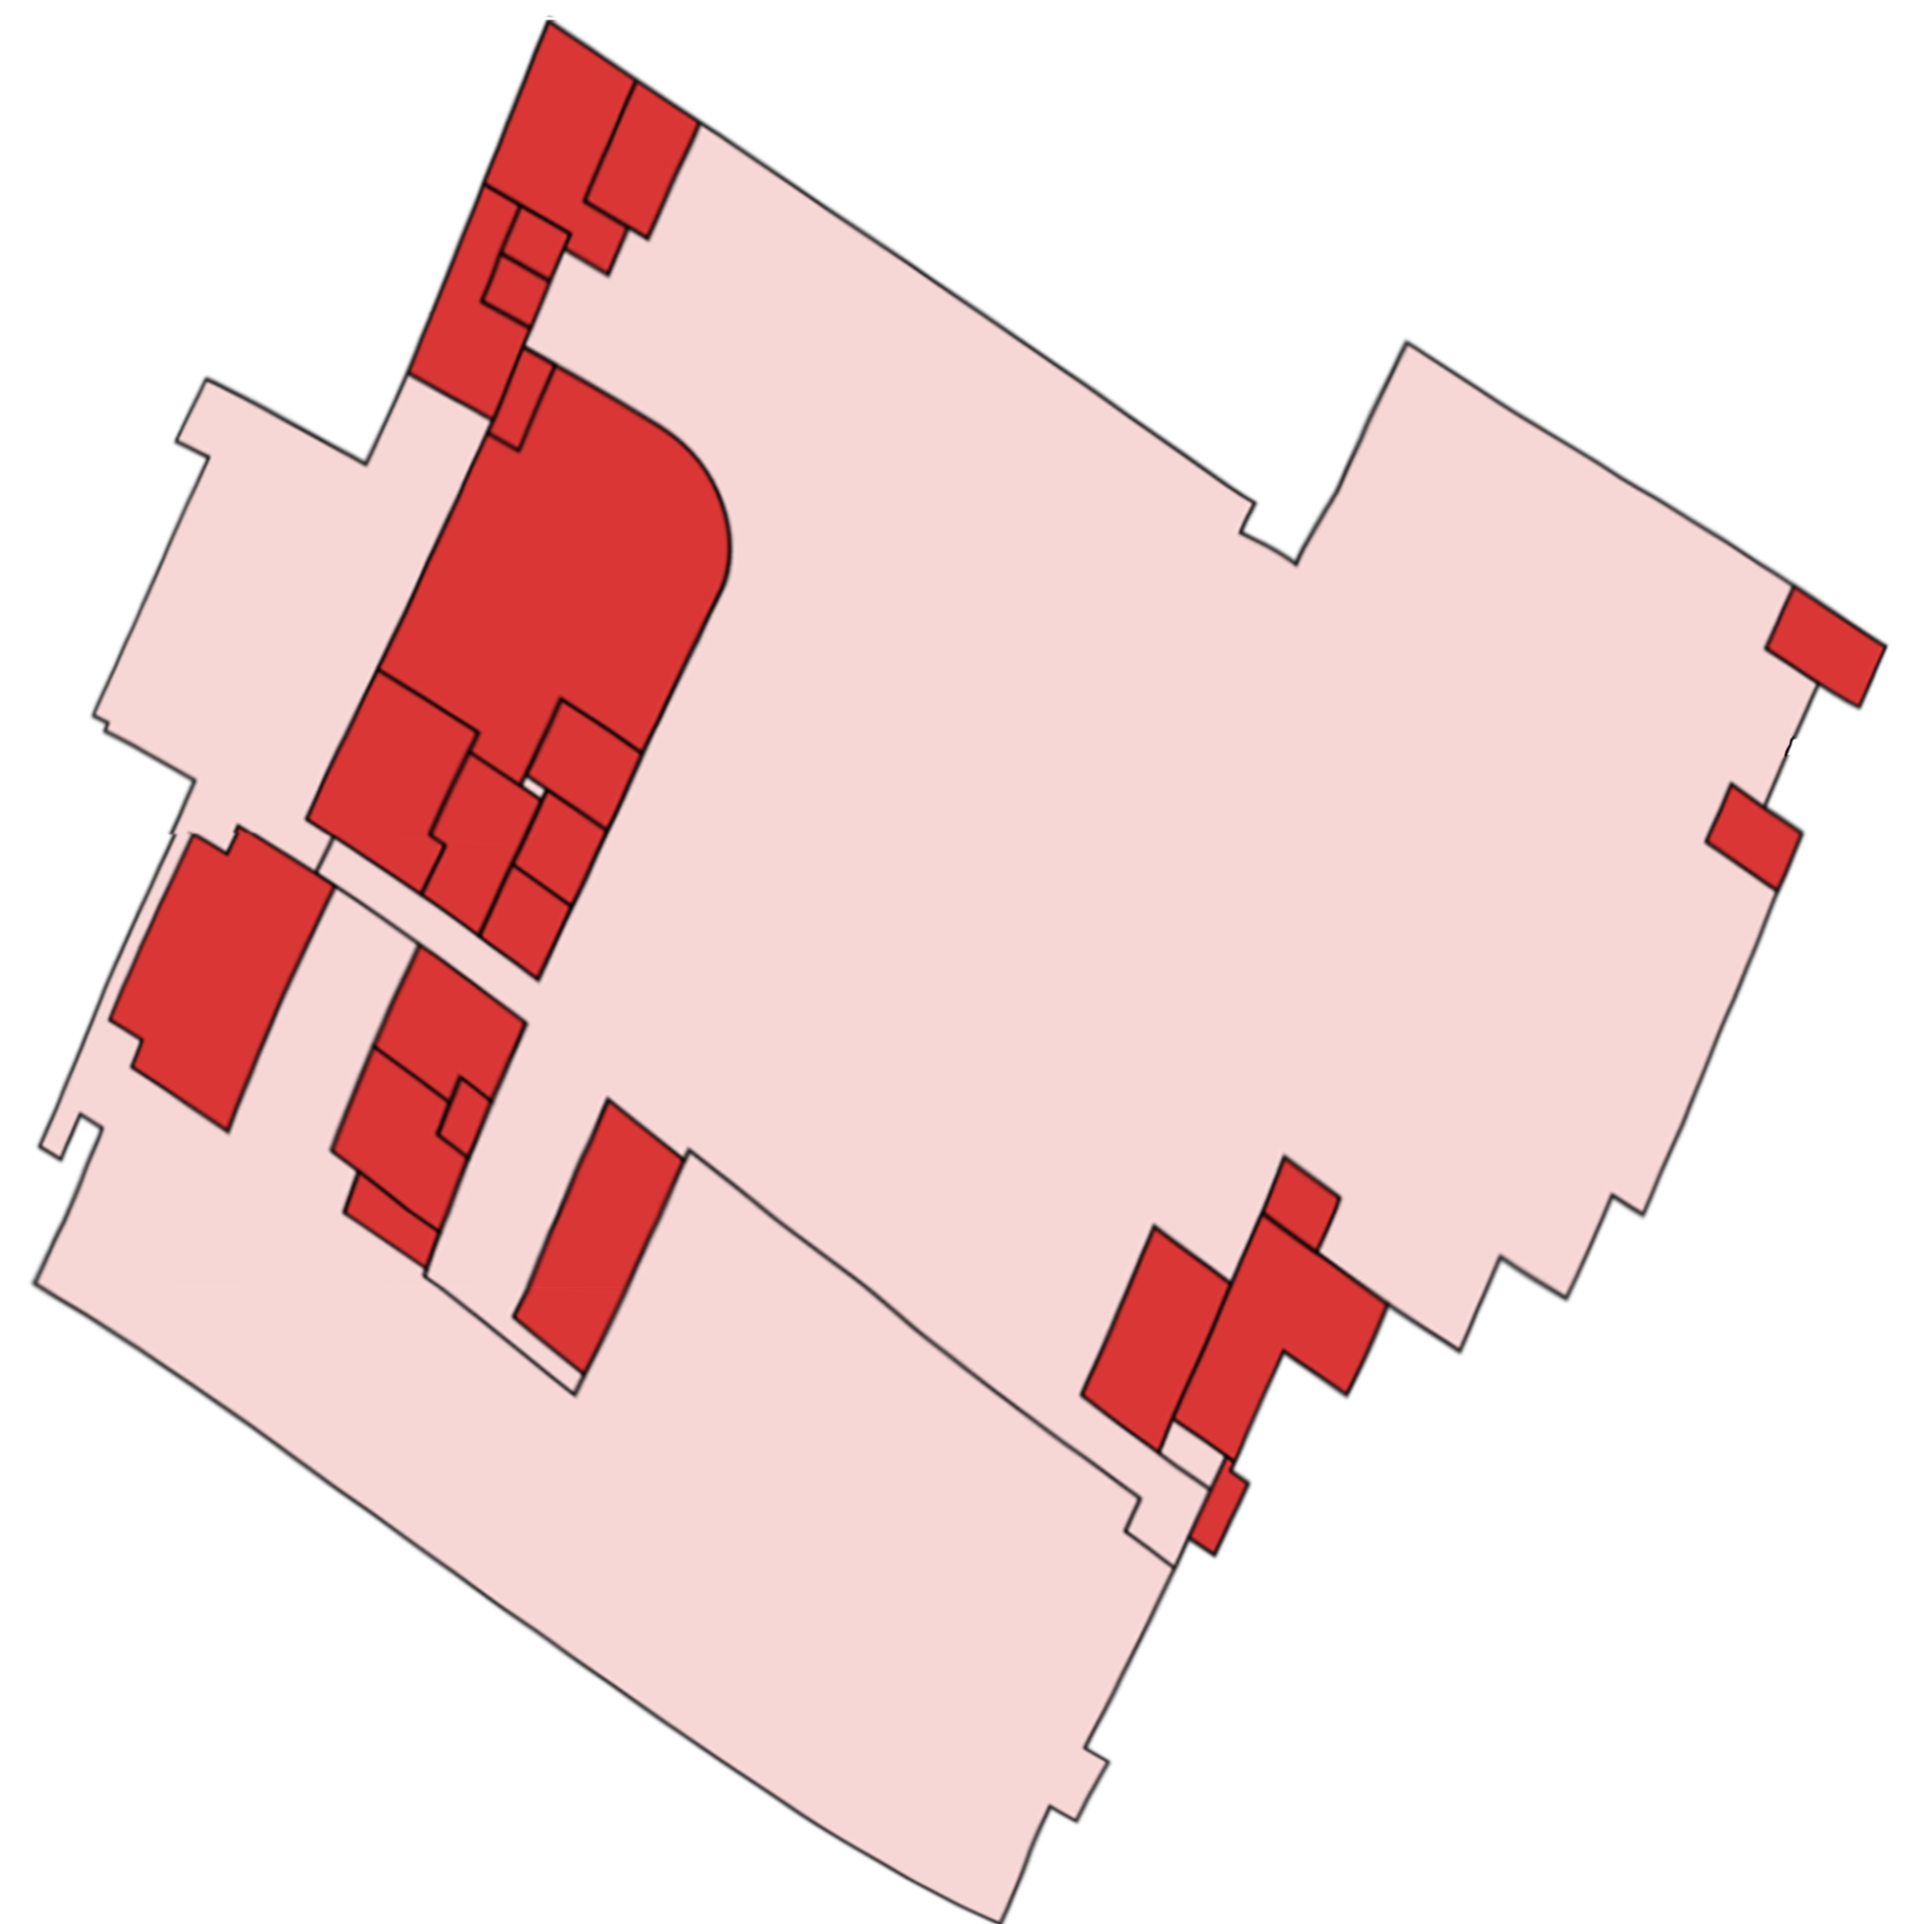
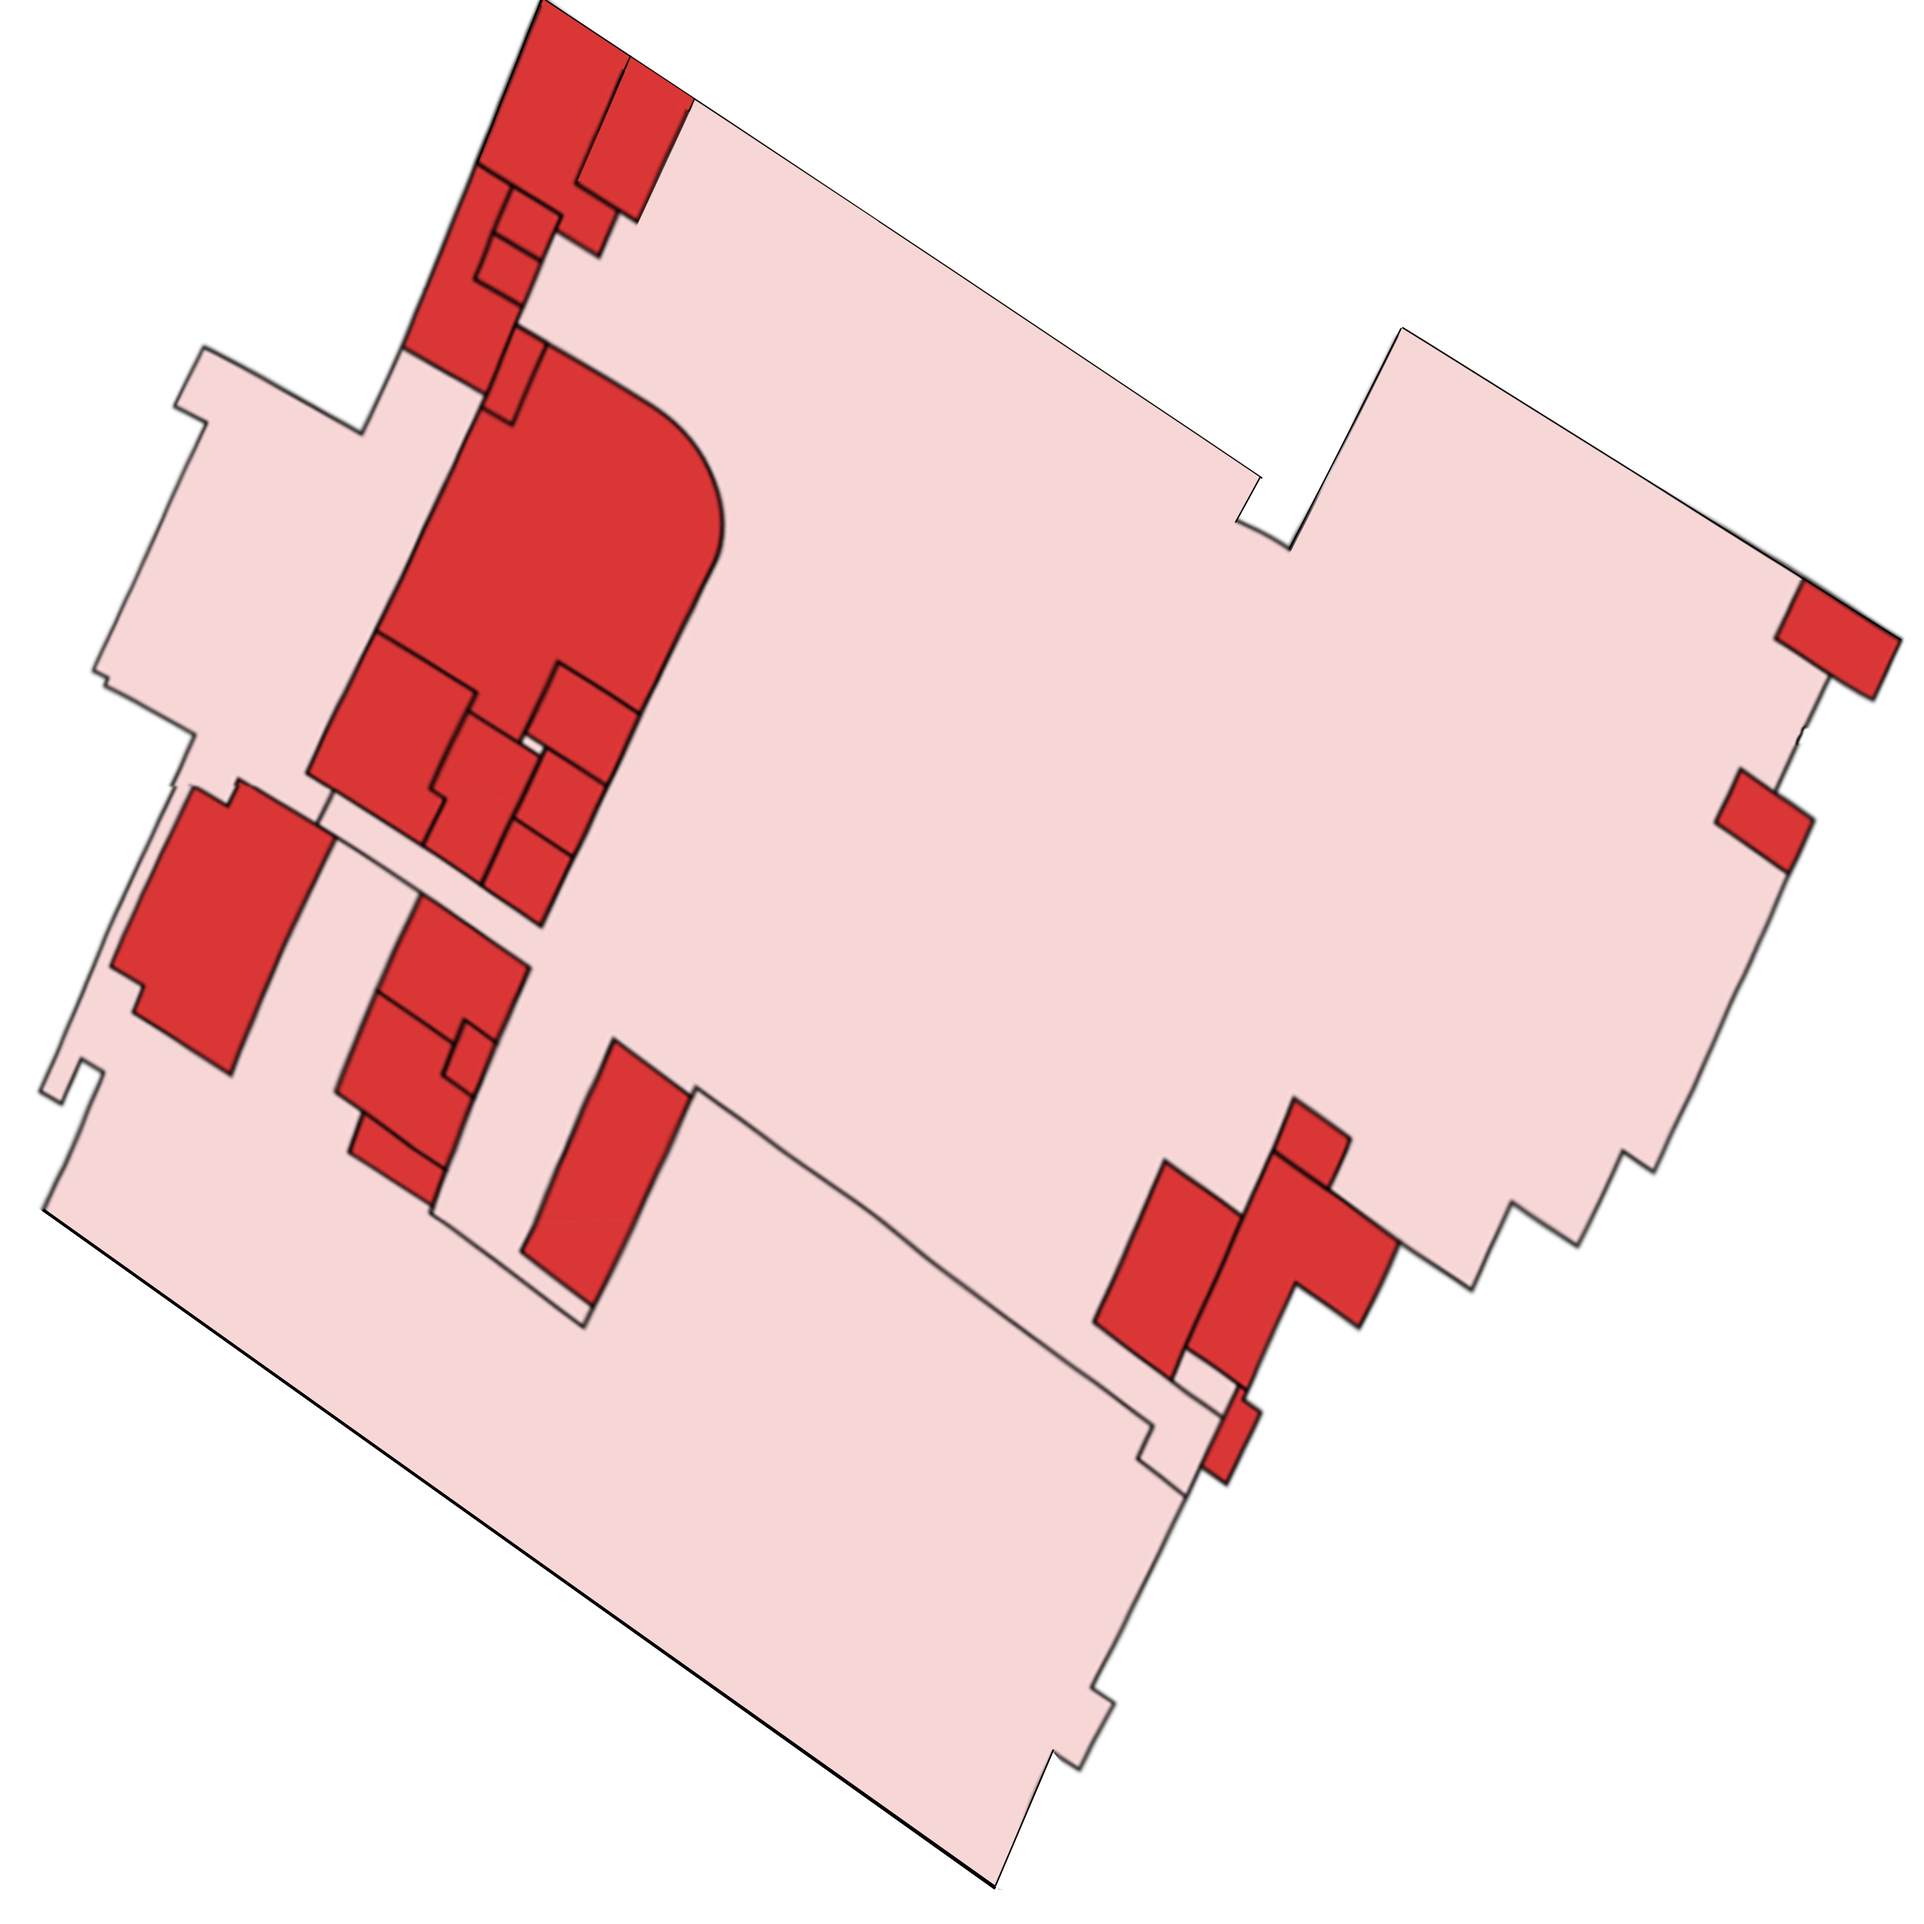
Completed resizing floor plans for vanier library (VL)

diff --git a/Concordia_Campus_App/maps/temp_map.js b/Concordia_Campus_App/maps/temp_map.js
@@ -564,7 +564,7 @@ const TempMap = () => {
                                 {building.name === "Vanier Library Building"  && (
                                   <BuildingOverlay
                                   coordinates={building.coordinates}
-                                  image={require('../assets/floor_plans/VL-1.png')}/>)}
+                                  image={require('../assets/floor_plans/VL-2.png')}/>)}
 
                                 {full_path && showPath && (
                                     <PathOverlay path={full_path.find(floorData => floorData.floor === selectedFloor)?.coordinates || []} />
